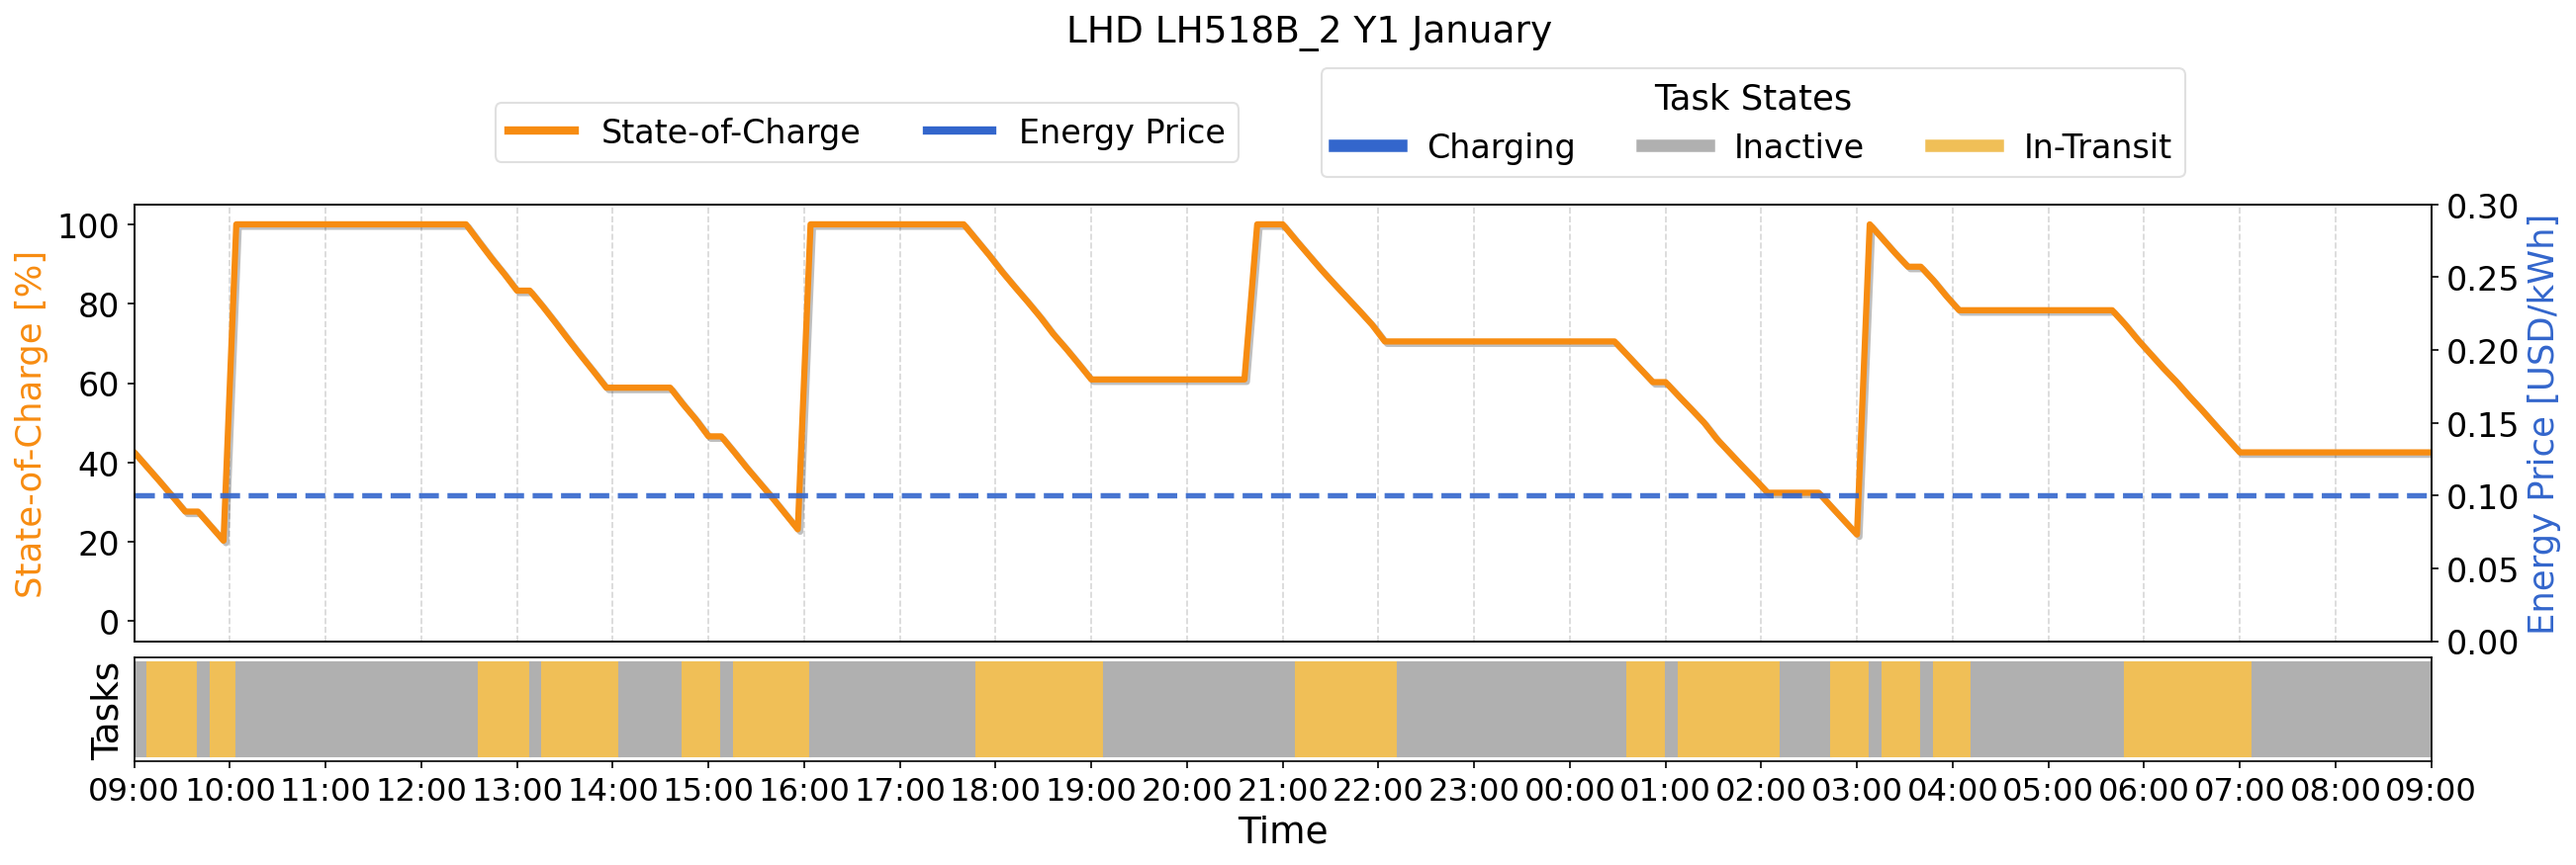
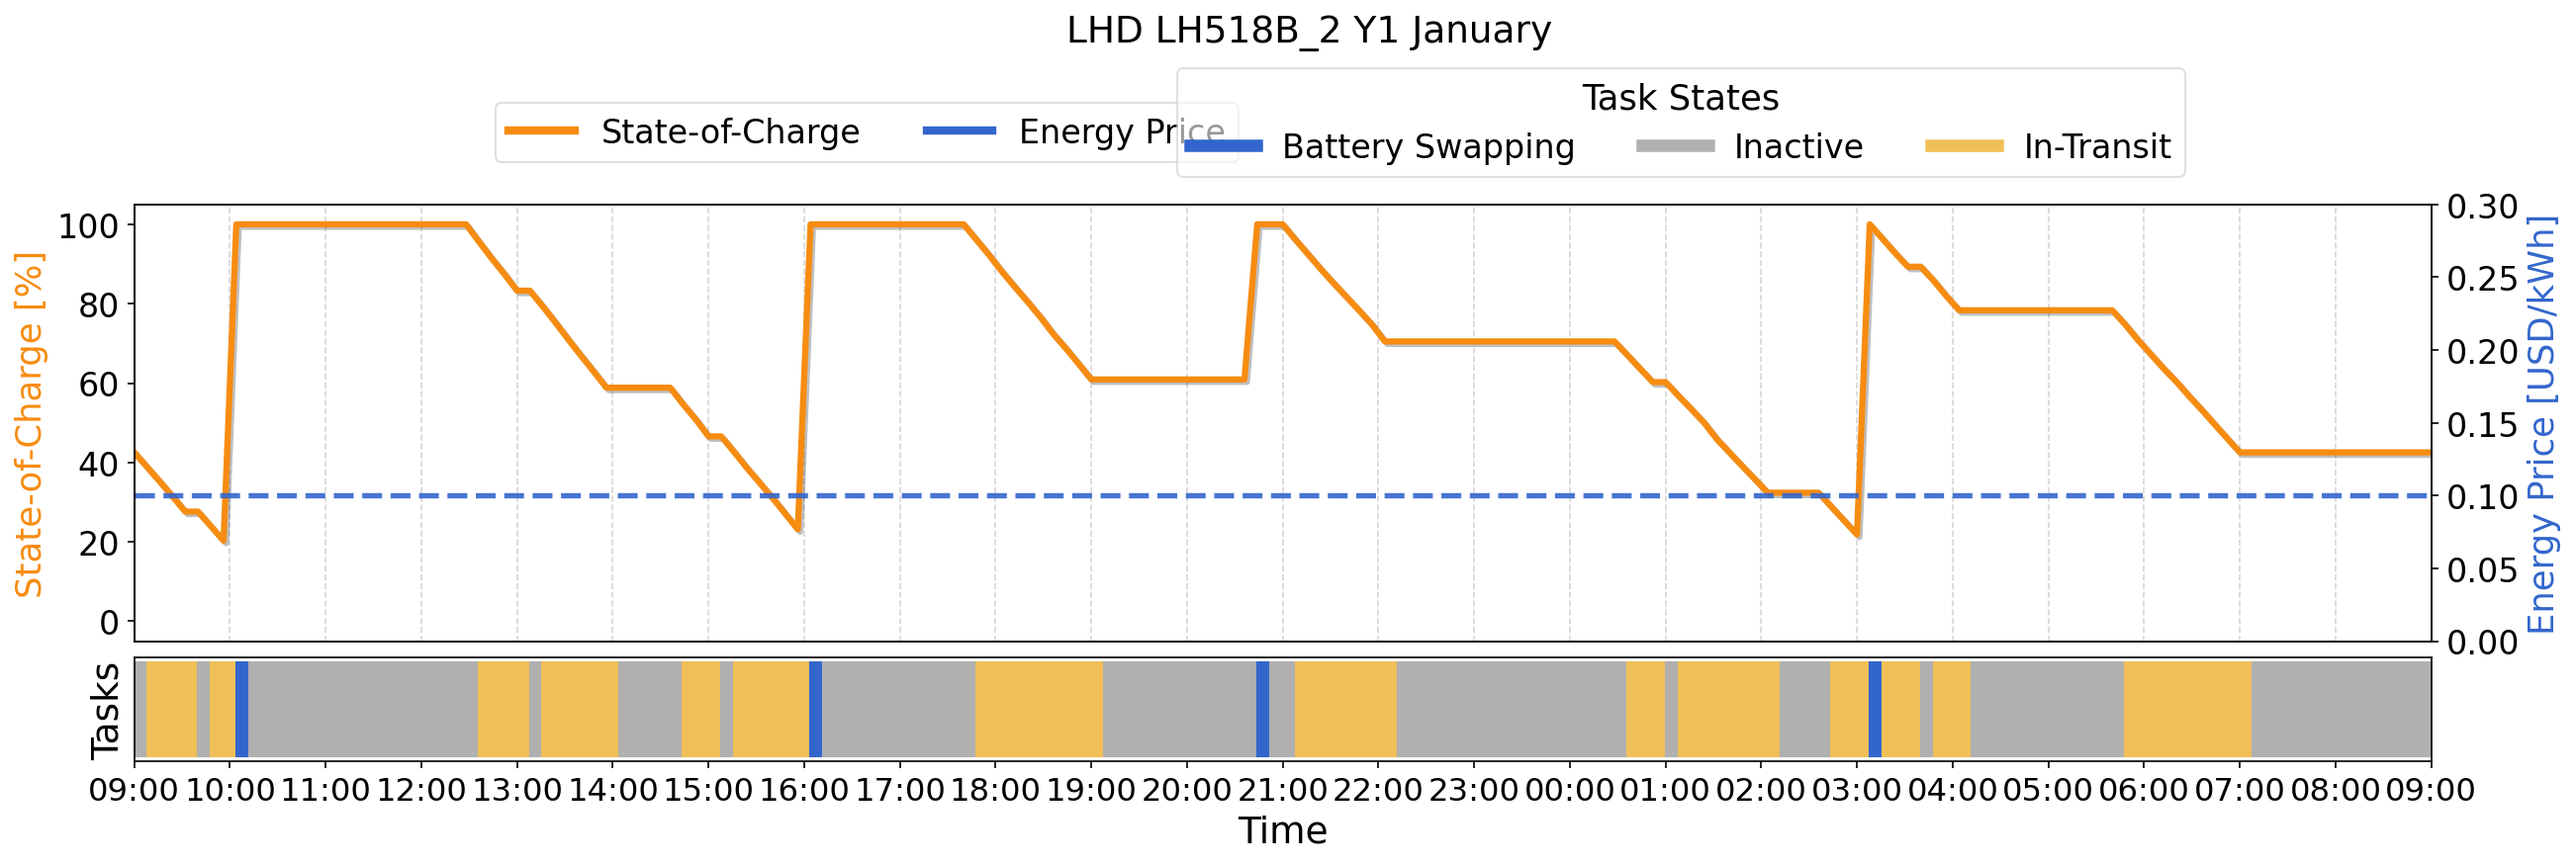
multiano

diff --git a/json_plotter.py b/json_plotter.py
@@ -1205,11 +1205,15 @@ class JSONPlotter:
                     continue
                 is_electric = not dfB_sel.empty
 
+                is_swap = self.df_Zswap is not None and not self.df_Zswap.empty
+                charging_label = "Battery Swapping" if is_swap else "Charging"
+
                 palette = {
                     "State-of-Charge": "#f78c11",
                     "Fuel": "#4169E1",
                     "Energy Price": "#3366CC",
                     "Charging": "#3366CC",
+                    "Battery Swapping": "#3366CC",
                     "Inactive": "#B0B0B0",
                     "In-Transit": "#F0BF57",
                 }
@@ -1274,6 +1278,8 @@ class JSONPlotter:
                 Y_filtered = _y[(_y["lhd"] == lhd) & (_y["value"] >= 0.5)] if not _y.empty else pd.DataFrame()
                 _p = self._filter_yd(self.df_P, y, day) if (self.df_P is not None and not self.df_P.empty) else pd.DataFrame()
                 P_filtered = _p[_p["lhd"] == lhd] if not _p.empty else pd.DataFrame()
+                _z = self._filter_yd(self.df_Zswap, y, day) if is_swap else pd.DataFrame()
+                Z_filtered = _z[(_z["lhd"] == lhd) & (_z["value"] >= 0.5)] if not _z.empty else pd.DataFrame()
 
                 states = []
                 for t in self.intervals:
@@ -1282,13 +1288,16 @@ class JSONPlotter:
                         is_traveling = not Y_filtered.query("interval == @t").empty
 
                     is_charging = False
-                    if is_electric and not P_filtered.empty and {"interval", "value"}.issubset(P_filtered.columns):
+                    if is_swap:
+                        if not Z_filtered.empty and "interval" in Z_filtered.columns:
+                            is_charging = not Z_filtered.query("interval == @t").empty
+                    elif is_electric and not P_filtered.empty and {"interval", "value"}.issubset(P_filtered.columns):
                         is_charging = not P_filtered.query("interval == @t and value > 1").empty
 
                     if is_traveling:
                         states.append("In-Transit")
                     elif is_charging:
-                        states.append("Charging")
+                        states.append(charging_label)
                     else:
                         states.append("Inactive")
 
@@ -1317,7 +1326,7 @@ class JSONPlotter:
                         )
 
                 row1_names = [soc_name, "Energy Price"]
-                row2_names = ["Charging", "Inactive", "In-Transit"]
+                row2_names = [charging_label, "Inactive", "In-Transit"]
                 row1_handles = [
                     plt.Line2D([0], [0], color=palette[name], lw=4, label=name)
                     for name in row1_names
